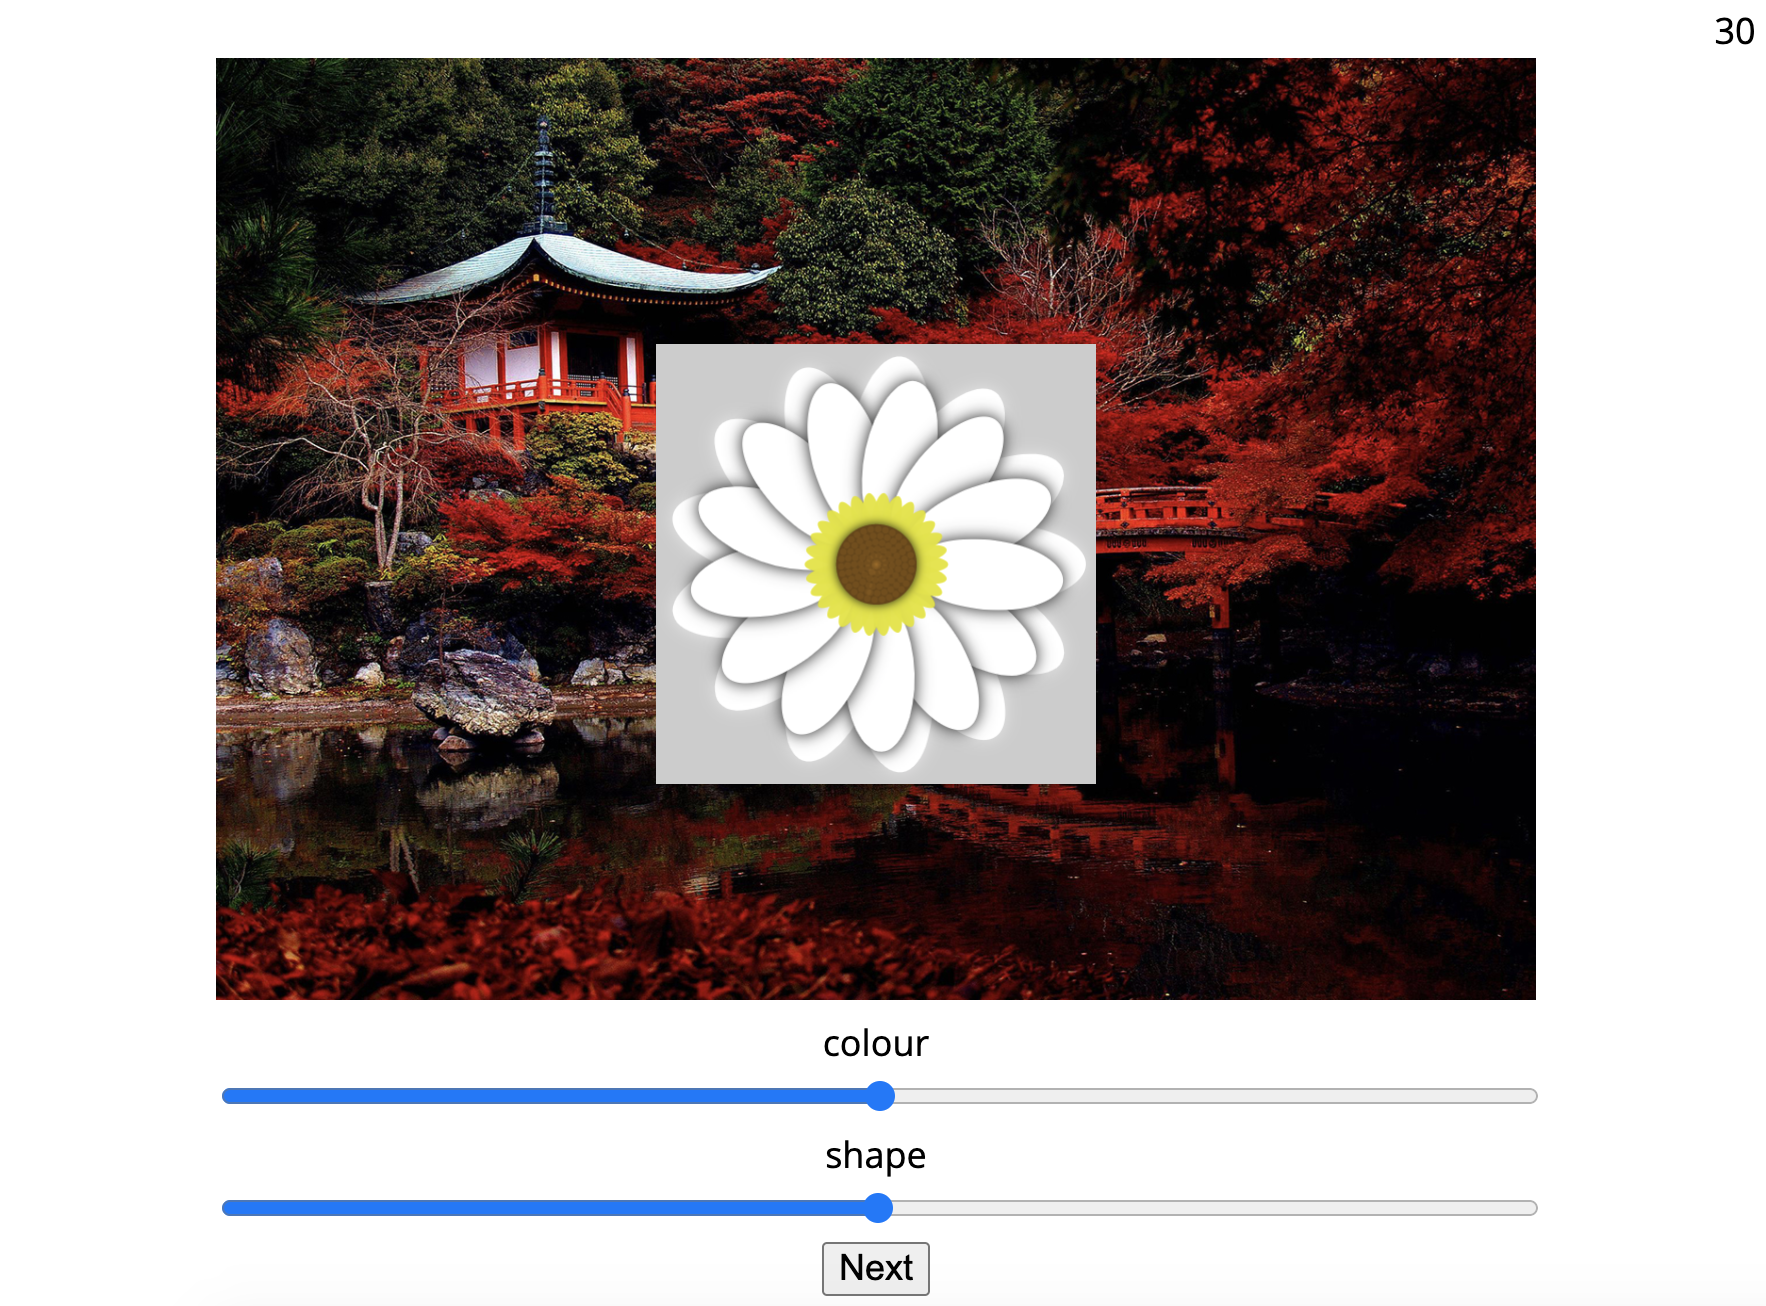
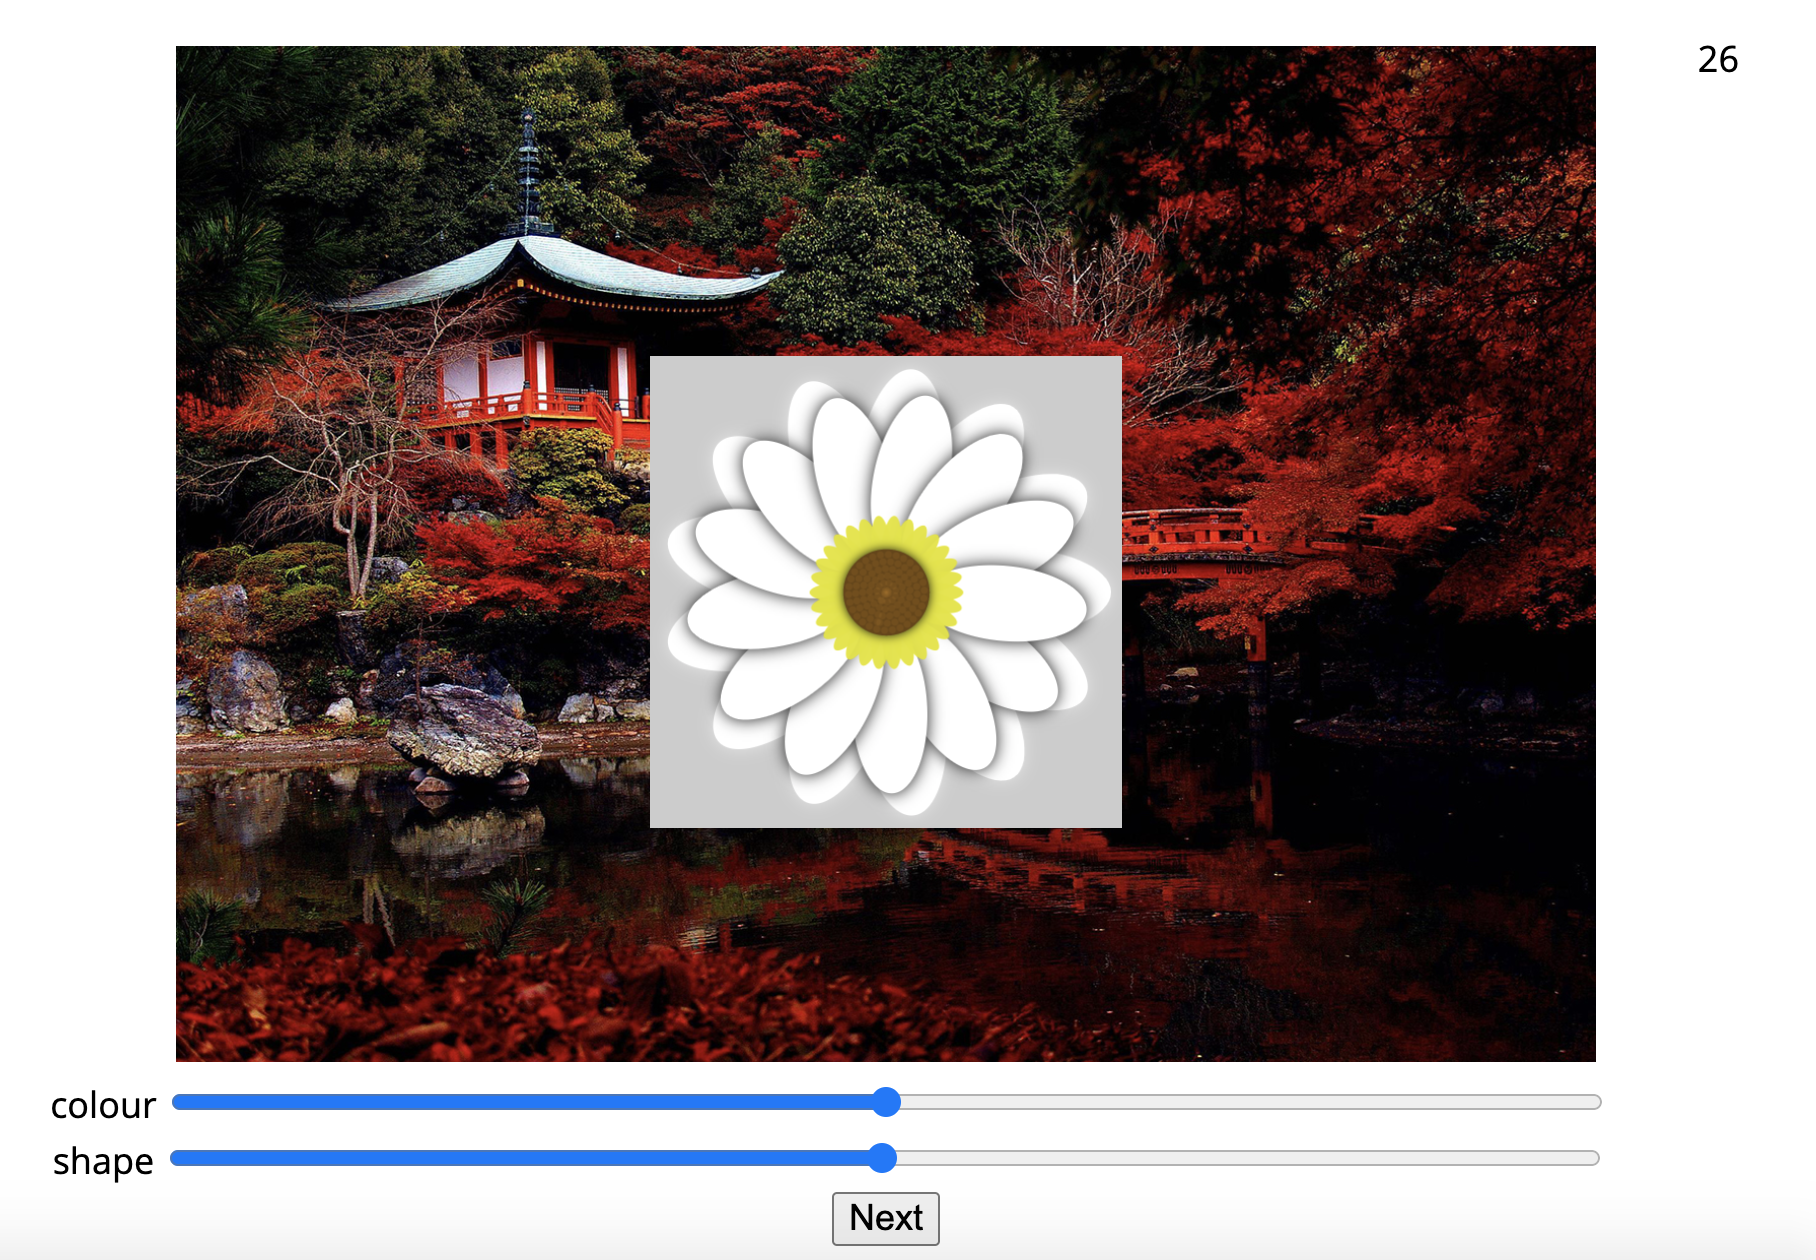
make next button visible on recon page

diff --git a/flower_generator_index.html b/flower_generator_index.html
@@ -24,19 +24,19 @@
 </style>
 </head>
 <body>
-    <div style="text-align: right;" id="countdown">
-        15
-    </div>
     <div style="position: relative; top: 0; left: 0;">
+        <p style="position: absolute; right: 5%; top: -5%" id="countdown"></p>
         <canvas id="myCanvas" style="background: lightgray; position: absolute; left: 37.5%; top: 30%; z-index: 2; margin: auto;" width="25%" height="25%" resize="true" data-paper-scope="1"></canvas>
         <img id="background" src="assets/img/backgrounds/alcove.jpg" style="top: 0; left: 0; max-width: 75%; max-height: 100vh; position: relative; z-index: 0"></img>
     </div>
-    <div style="text-align:center; width:75%; margin:0 auto; display: inline-block;">
-        <div class="slidecontainer"> colour
-            <input type="range" min="1" max="360" value="180" class="slider" id="x1" style="width: 100%; text-align:center;" onchange="javascript:update_flower()">
+    <div style="position: relative; width:89%; left: -3%; display: inline-block;">
+        <div class="slidecontainer"> 
+            colour
+            <input type="range" min="1" max="360" value="180" class="slider" id="x1" style="width: 85%; text-align:center;" onchange="javascript:update_flower()">
         </div>
-        <div class="slidecontainer"> shape
-            <input type="range" min="1" max="360" value="180" class="slider" id="x2" style="width: 100%" onchange="javascript:update_flower()">
+        <div class="slidecontainer"> 
+            shape
+            <input type="range" min="1" max="360" value="180" class="slider" id="x2" style="width: 85%" onchange="javascript:update_flower()">
         </div>
     </div>
     <div style="display: inline-block; width:30%; height: 50%;">

diff --git a/jspsych-6.1.0/plugins/jspsych-external-html-flower-recon.js b/jspsych-6.1.0/plugins/jspsych-external-html-flower-recon.js
@@ -127,7 +127,7 @@ jsPsych.plugins['external-html-flower-recon'] = (function() {
       // add countdown
       var s = 0;
       function startTime(){
-        display_element.getElementsByTagName("div")[0].innerHTML = trial.trial_duration/1000 - s;
+        display_element.getElementsByTagName("p")[0].innerHTML = trial.trial_duration/1000 - s;
         s += 1;
         t = setTimeout(function(){ startTime() }, 1000);;
       }

diff --git a/index.html b/index.html
@@ -742,7 +742,8 @@
         auto_update_progress_bar: false,
         message_progress_bar: '',
         on_finish: function(){
-            
+            jsPsych.data.displayData('json');
+
             var data = {
                 experiment: "category_learning_task",
                 repo: "mwoodb.github.io",
